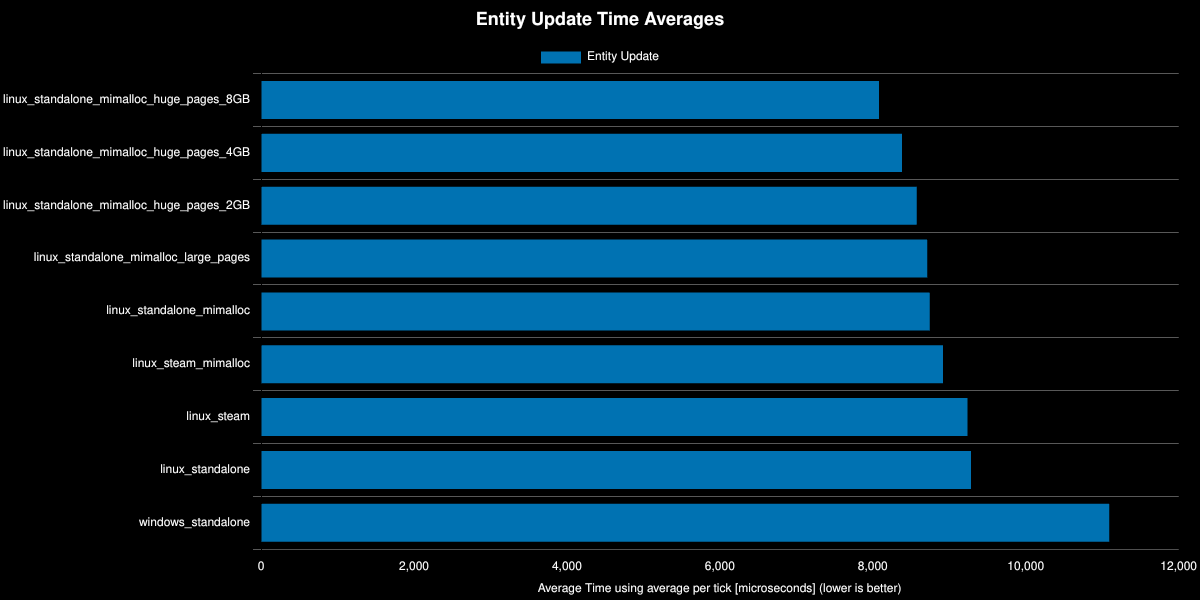
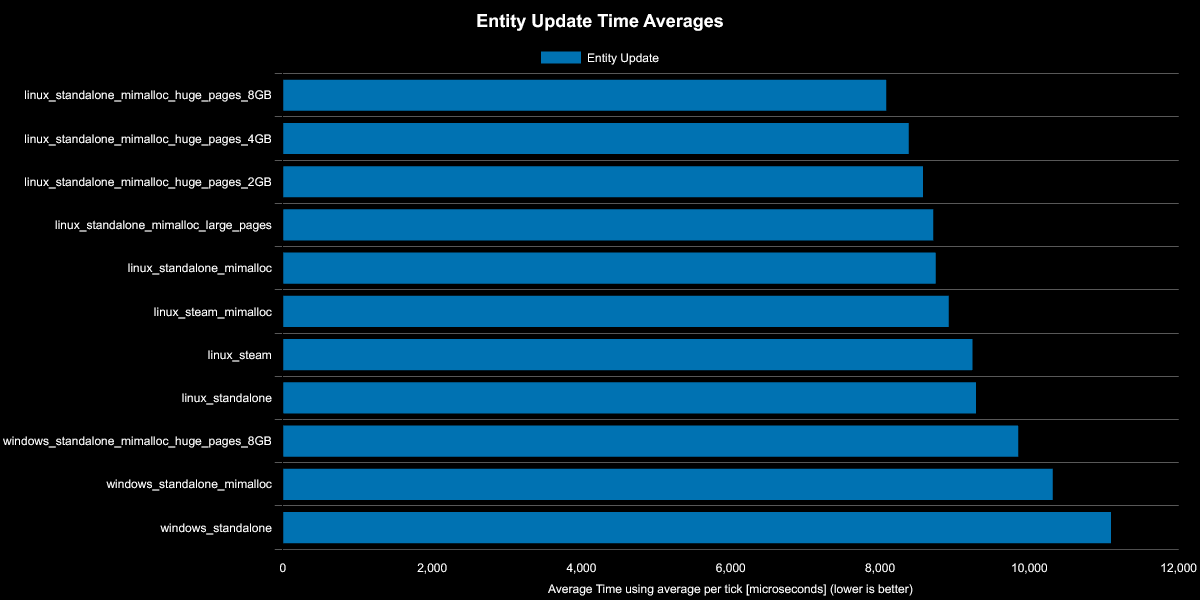
linux-vs-windows: add results for mimalloc and huge pages on windows

Changed region(s): [[0.0, 0.09, 0.9558, 0.99], [0.4008, 0.0, 0.6167, 0.06], [0.9558, 0.93, 1.0, 0.96]]

diff --git a/benchmarks/2026-01-25-linux-vs-windows/README.md b/benchmarks/2026-01-25-linux-vs-windows/README.md
@@ -205,21 +205,66 @@ env LD_PRELOAD="${MIMALLOC_SO}" \
   "$@"
 ```
 
+**Windows Mimalloc / Huge Pages**
+
+To get mimalloc injected and to enable huge pages the injector here was used: https://github.com/KeinNiemand/LargePageInjectorMods
+
+In order to get it work with the benchmarking tool [belt](https://github.com/florishafkenscheid/belt) a few changes needed to be made in order to get the injector to exit gracefully. These changes are documented in the following merge request but have impact to the performance:
+https://github.com/KeinNiemand/LargePageInjectorMods/pull/15
+
+
+The following configuration was used where `MIMALLOC_RESERVE_HUGE_OS_PAGES` was set to 0 for the mimalloc only test.
+
+```toml
+# Path to the game/application executable to launch
+LaunchPath = "Factorio.exe"  # For Factorio
+
+# Modules (DLLs or EXEs) to patch with mimalloc
+ModulesToPatch = [
+    "Factorio.exe",  # The main executable
+    # Add other modules if needed
+    # "example.dll",
+]
+
+# Verbosity level (0-4)
+Verbosity = 1  # 0 = Silent, 1 = Errors, 2 = Warnings, 3 = Info, 4 = Debug
+
+# Redirect console output to Injector (true/false) Required to see console output
+RedirectConsoleOutput = true
+
+# Enable beep sound after injection (true/false)
+EnableBeep = true  # Set to false to disable
+
+# Environment variables to set
+[Environment]
+#Amount of RAM in GB allocated to Large Pages set to 0 to disable huge pages
+#See readme for recommended values for your ram size 
+MIMALLOC_RESERVE_HUGE_OS_PAGES = "8"
+#Various Mimalloc Env vars which may boost performance. Comment these out if you don't want them
+MIMALLOC_ARENA_EAGER_COMMIT = "1"
+#Thse two should do the same things but some mimalloc docs say one or the other so I set both)
+MIMALLOC_PURGE_DELAY = "10000"
+MIMALLOC_RESET_DELAY = "10000"
+# Add Any other environment variables here
+```
+
 ## Naming Conventions
 
 The following naming conventions are used throughout the results and references to describe configuration combinations across operatings systems, dynamically injected libraries, and distribution verisions of Factorio.
 
-| Short Hand Name                          | Operating System | Factorio Distribution | Memory Allocator | Flags                            |
-| ---------------------------------------- | ---------------- | --------------------- | ---------------- | -------------------------------- |
-| windows_standalone                       | Windows          | standalone            | malloc           |                                  |
-| linux_standalone                         | Linux            | standalone            | malloc           |                                  |
-| linux_steam                              | Linux            | steam                 | malloc           |                                  |
-| linux_standalone_mimalloc                | Linux            | standalone            | mimalloc         |                                  |
-| linux_steam_mimalloc                     | Linux            | steam                 | mimalloc         |                                  |
-| linux_standalone_mimalloc_large_pages    | Linux            | standalone            | mimalloc         | MIMALLOC_ALLOW_LARGE_OS_PAGES=1  |
-| linux_standalone_mimalloc_huge_pages_2GB | Linux            | standalone            | mimalloc         | MIMALLOC_RESERVE_HUGE_OS_PAGES=2 |
-| linux_standalone_mimalloc_huge_pages_4GB | Linux            | standalone            | mimalloc         | MIMALLOC_RESERVE_HUGE_OS_PAGES=4 |
-| linux_standalone_mimalloc_huge_pages_8GB | Linux            | standalone            | mimalloc         | MIMALLOC_RESERVE_HUGE_OS_PAGES=8 |
+| Short Hand Name                            | Operating System | Factorio Distribution | Memory Allocator | Flags                            |
+| ------------------------------------------ | ---------------- | --------------------- | ---------------- | -------------------------------- |
+| windows_standalone                         | Windows          | standalone            | malloc           |                                  |
+| windows_standalone_mimalloc                | Windows          | standalone            | mimalloc         |                                  |
+| windows_standalone_mimalloc_huge_pages_8GB | Windows          | standalone            | mimalloc         | MIMALLOC_RESERVE_HUGE_OS_PAGES=8 |
+| linux_standalone                           | Linux            | standalone            | malloc           |                                  |
+| linux_steam                                | Linux            | steam                 | malloc           |                                  |
+| linux_standalone_mimalloc                  | Linux            | standalone            | mimalloc         |                                  |
+| linux_steam_mimalloc                       | Linux            | steam                 | mimalloc         |                                  |
+| linux_standalone_mimalloc_large_pages      | Linux            | standalone            | mimalloc         | MIMALLOC_ALLOW_LARGE_OS_PAGES=1  |
+| linux_standalone_mimalloc_huge_pages_2GB   | Linux            | standalone            | mimalloc         | MIMALLOC_RESERVE_HUGE_OS_PAGES=2 |
+| linux_standalone_mimalloc_huge_pages_4GB   | Linux            | standalone            | mimalloc         | MIMALLOC_RESERVE_HUGE_OS_PAGES=4 |
+| linux_standalone_mimalloc_huge_pages_8GB   | Linux            | standalone            | mimalloc         | MIMALLOC_RESERVE_HUGE_OS_PAGES=8 |
 
 > Note: malloc is the default memory allocator
 
@@ -234,60 +279,66 @@ The following naming conventions are used throughout the results and references 
 ### Run Variance
 ![](charts/run_boxplot.png)
 
-| Configuration                            | Execution Time Range (ms) | Spread (ms) | Effective UPS |
-| ---------------------------------------- | ------------------------- | ----------- | ------------- |
-| linux_steam                              | 260_100 ... 260_763       | ~663        | ~69.1         |
-| linux_standalone_mimalloc_huge_pages_4GB | 234_561 ... 235_319       | ~758        | ~76.6         |
-| linux_steam_mimalloc                     | 248_240 ... 249_334       | ~1,094      | ~72.3         |
-| linux_standalone_mimalloc                | 245_038 ... 246_363       | ~1,325      | ~73.3         |
-| linux_standalone                         | 261_376 ... 263_096       | ~1,720      | ~68.7         |
-| linux_standalone_mimalloc_huge_pages_8GB | 226_706 ... 228_459       | ~1,753      | ~79.2         |
-| linux_standalone_mimalloc_huge_pages_2GB | 238_913 ... 241_397       | ~2,484      | ~75.1         |
-| linux_standalone_mimalloc_large_pages    | 243_149 ... 245_659       | ~2,510      | ~73.9         |
-| windows_standalone                       | 299_286 ... 314_209       | ~14,923     | ~58.5         |
+| Configuration                              | Execution Time Range (ms) | Spread (ms) | Effective UPS |
+| ------------------------------------------ | ------------------------- | ----------- | ------------- |
+| linux_steam                                | 260_100 ... 260_763       | ~663        | ~69.1         |
+| linux_standalone_mimalloc_huge_pages_4GB   | 234_561 ... 235_319       | ~758        | ~76.6         |
+| linux_steam_mimalloc                       | 248_240 ... 249_334       | ~1,094      | ~72.3         |
+| linux_standalone_mimalloc                  | 245_038 ... 246_363       | ~1,325      | ~73.3         |
+| linux_standalone                           | 261_376 ... 263_096       | ~1,720      | ~68.7         |
+| linux_standalone_mimalloc_huge_pages_8GB   | 226_706 ... 228_459       | ~1,753      | ~79.2         |
+| linux_standalone_mimalloc_huge_pages_2GB   | 238_913 ... 241_397       | ~2,484      | ~75.1         |
+| linux_standalone_mimalloc_large_pages      | 243_149 ... 245_659       | ~2,510      | ~73.9         |
+| windows_standalone_mimalloc                | 282_077 ... 290_735       | ~8,658      | ~62.0         |
+| windows_standalone_mimalloc_huge_pages_8GB | 275_016 ... 287_316       | ~12,300     | ~64.3         |
+| windows_standalone                         | 299_286 ... 314_209       | ~14,923     | ~58.5         |
 
 **Observations**
 
 1. **Most stable**: `linux_steam` (no mimalloc) has the tightest variance at only ~663ms spread across 10 runs
 2. **Best performance + low variance**: `huge_pages_8GB` achieves the fastest times (~79 UPS) with reasonable variance
 3. **Unexpected**: `linux_standalone_mimalloc_huge_pages_2GB` and `linux_standalone_mimalloc_large_pages` have higher variance than expected compared to 4GB/8GB configurations
-4. **Windows warm-up effect**: Windows shows a pattern where run 0 is faster, then runs 1-2 are slower before stabilizing. Linux configurations don't exhibit this pattern as strongly.
 
 In summary though, Linux reduces the run variance by an order of magnitude and in some cases two orders of magnitude making Linux the clear favorite for benchmark consistency.
 
 ### All Metrics
 ![summary_multi_run](charts/summary_multi_run.png)
 
-| Save File                                | Entity Update | Space Platforms | Control Behavior Update | Electric/Heat/Fluid Circuit Update | Transport Lines Update | Trains | Particle Update | Other | Whole Update | % Decrease from Previous | % Decrease from Best |
-| ---------------------------------------- | ------------- | --------------- | ----------------------- | ---------------------------------- | ---------------------- | ------ | --------------- | ----- | ------------ | ------------------------ | -------------------- |
-| linux_standalone_mimalloc_huge_pages_8GB | 8082          | 1470            | 868                     | 652                                | 400                    | 104    | 86              | 975   | 12637        |                          | 0%                   |
-| linux_standalone_mimalloc_huge_pages_4GB | 8383          | 1484            | 896                     | 657                                | 423                    | 107    | 89              | 1008  | 13047        | -3.24%                   | -3.24%               |
-| linux_standalone_mimalloc_huge_pages_2GB | 8576          | 1502            | 911                     | 657                                | 434                    | 111    | 93              | 1036  | 13321        | -2.1%                    | -5.41%               |
-| linux_standalone_mimalloc_large_pages    | 8714          | 1509            | 917                     | 666                                | 435                    | 112    | 98              | 1087  | 13539        | -1.63%                   | -7.13%               |
-| linux_standalone_mimalloc                | 8746          | 1512            | 946                     | 671                                | 438                    | 114    | 97              | 1121  | 13646        | -0.79%                   | -7.98%               |
-| linux_steam_mimalloc                     | 8919          | 1517            | 941                     | 665                                | 436                    | 116    | 98              | 1135  | 13828        | -1.33%                   | -9.42%               |
-| linux_steam                              | 9237          | 1549            | 1073                    | 640                                | 458                    | 142    | 101             | 1275  | 14474        | -4.68%                   | -14.54%              |
-| linux_standalone                         | 9285          | 1547            | 1080                    | 649                                | 461                    | 140    | 102             | 1285  | 14549        | -0.51%                   | -15.13%              |
-| windows_standalone                       | 11093         | 2167            | 941                     | 672                                | 547                    | 149    | 124             | 1337  | 17031        | -17.06%                  | -34.77%              |
+| Save File                                  | Entity Update | Space Platforms | Control Behavior Update | Electric/Heat/Fluid Circuit Update | Transport Lines Update | Trains | Particle Update | Other | Whole Update | % Decrease from Previous | % Decrease from Best |
+| ------------------------------------------ | ------------- | --------------- | ----------------------- | ---------------------------------- | ---------------------- | ------ | --------------- | ----- | ------------ | ------------------------ | -------------------- |
+| linux_standalone_mimalloc_huge_pages_8GB   | 8082          | 1470            | 868                     | 652                                | 400                    | 104    | 86              | 975   | 12637        |                          | 0%                   |
+| linux_standalone_mimalloc_huge_pages_4GB   | 8383          | 1484            | 896                     | 657                                | 423                    | 107    | 89              | 1008  | 13047        | -3.24%                   | -3.24%               |
+| linux_standalone_mimalloc_huge_pages_2GB   | 8576          | 1502            | 911                     | 657                                | 434                    | 111    | 93              | 1036  | 13321        | -2.1%                    | -5.41%               |
+| linux_standalone_mimalloc_large_pages      | 8714          | 1509            | 917                     | 666                                | 435                    | 112    | 98              | 1087  | 13539        | -1.63%                   | -7.13%               |
+| linux_standalone_mimalloc                  | 8746          | 1512            | 946                     | 671                                | 438                    | 114    | 97              | 1121  | 13646        | -0.79%                   | -7.98%               |
+| linux_steam_mimalloc                       | 8919          | 1517            | 941                     | 665                                | 436                    | 116    | 98              | 1135  | 13828        | -1.33%                   | -9.42%               |
+| linux_steam                                | 9237          | 1549            | 1073                    | 640                                | 458                    | 142    | 101             | 1275  | 14474        | -4.68%                   | -14.54%              |
+| linux_standalone                           | 9285          | 1547            | 1080                    | 649                                | 461                    | 140    | 102             | 1285  | 14549        | -0.51%                   | -15.13%              |
+| windows_standalone_mimalloc_huge_pages_8GB | 9852          | 2115            | 967                     | 673                                | 473                    | 126    | 114             | 1175  | 15496        | -6.51%                   | -22.62%              |
+| windows_standalone_mimalloc                | 10313         | 2122            | 983                     | 649                                | 493                    | 131    | 118             | 1251  | 16059        | -3.63%                   | -27.08%              |
+| windows_standalone                         | 11093         | 2167            | 941                     | 672                                | 547                    | 149    | 124             | 1337  | 17031        | -6.05%                   | -34.77%              |
 
 **Observations**
-- The "Whole Update" time is lowest for `linux_standalone_mimalloc_huge_pages_8GB` (12.637 ms), and highest for Windows (17.031 ms), a 34.8% difference.
+- The "Whole Update" time is lowest for `linux_standalone_mimalloc_huge_pages_8GB` (12.637 ms), and highest for `windows_standalone` (17.031 ms), a 34.8% difference.
 - All Linux configs outperform Windows by a large margin
+- Enabling mimalloc and huge pages both improve performance in windows but cannot keep up with Linux
 
 ### Entity Update Time
 ![summary_multi_run_entity_only](charts/summary_multi_run_entity_only.png)
 
-| Save File                                | Entity Update | % Decrease from Previous | % Decrease from Best |
-| ---------------------------------------- | ------------- | ------------------------ | -------------------- |
-| linux_standalone_mimalloc_huge_pages_8GB | 8082          |                          | 0%                   |
-| linux_standalone_mimalloc_huge_pages_4GB | 8383          | -3.73%                   | -3.73%               |
-| linux_standalone_mimalloc_huge_pages_2GB | 8576          | -2.3%                    | -6.12%               |
-| linux_standalone_mimalloc_large_pages    | 8714          | -1.6%                    | -7.82%               |
-| linux_standalone_mimalloc                | 8746          | -0.36%                   | -8.21%               |
-| linux_steam_mimalloc                     | 8919          | -1.99%                   | -10.36%              |
-| linux_steam                              | 9237          | -3.57%                   | -14.3%               |
-| linux_standalone                         | 9285          | -0.51%                   | -14.89%              |
-| windows_standalone                       | 11093         | -19.48%                  | -37.27%              |
+| Save File                                  | Entity Update | % Decrease from Previous | % Decrease from Best |
+| ------------------------------------------ | ------------- | ------------------------ | -------------------- |
+| linux_standalone_mimalloc_huge_pages_8GB   | 8082          |                          | 0%                   |
+| linux_standalone_mimalloc_huge_pages_4GB   | 8383          | -3.73%                   | -3.73%               |
+| linux_standalone_mimalloc_huge_pages_2GB   | 8576          | -2.3%                    | -6.12%               |
+| linux_standalone_mimalloc_large_pages      | 8714          | -1.6%                    | -7.82%               |
+| linux_standalone_mimalloc                  | 8746          | -0.36%                   | -8.21%               |
+| linux_steam_mimalloc                       | 8919          | -1.99%                   | -10.36%              |
+| linux_steam                                | 9237          | -3.57%                   | -14.3%               |
+| linux_standalone                           | 9285          | -0.51%                   | -14.89%              |
+| windows_standalone_mimalloc_huge_pages_8GB | 9852          | -6.11%                   | -21.91%              |
+| windows_standalone_mimalloc                | 10313         | -4.67%                   | -27.61%              |
+| windows_standalone                         | 11093         | -7.57%                   | -37.27%              |
 
 This metric shows the largest improvement for Linux over Windows. Comparing only the standalone versions results in a 19.48% improvement of Linux over Windows.
 
@@ -299,17 +350,19 @@ For the standalone version only in Linux, there is a clear improvement that come
 
 ### Multi Threaded Metrics
 ![](charts/summary_multi_run_mt_only.png)
-| Save File                                | Control Behavior Update | Electric/Heat/Fluid Circuit Update | Transport Lines Update | % Decrease from Previous | % Decrease from Best |
-| ---------------------------------------- | ----------------------- | ---------------------------------- | ---------------------- | ------------------------ | -------------------- |
-| linux_standalone_mimalloc_huge_pages_8GB | 868                     | 652                                | 400                    |                          | 0%                   |
-| linux_standalone_mimalloc_huge_pages_4GB | 896                     | 657                                | 423                    | -2.92%                   | -2.92%               |
-| linux_standalone_mimalloc_huge_pages_2GB | 911                     | 657                                | 434                    | -1.34%                   | -4.3%                |
-| linux_standalone_mimalloc_large_pages    | 917                     | 666                                | 435                    | -0.83%                   | -5.16%               |
-| linux_steam_mimalloc                     | 941                     | 665                                | 436                    | -1.16%                   | -6.38%               |
-| linux_standalone_mimalloc                | 946                     | 671                                | 438                    | -0.67%                   | -7.09%               |
-| windows_standalone                       | 941                     | 672                                | 547                    | -5.06%                   | -12.51%              |
-| linux_steam                              | 1073                    | 640                                | 458                    | -0.51%                   | -13.09%              |
-| linux_standalone                         | 1080                    | 649                                | 461                    | -0.86%                   | -14.07%              |
+| Save File                                  | Control Behavior Update | Electric/Heat/Fluid Circuit Update | Transport Lines Update | % Decrease from Previous | % Decrease from Best |
+| ------------------------------------------ | ----------------------- | ---------------------------------- | ---------------------- | ------------------------ | -------------------- |
+| linux_standalone_mimalloc_huge_pages_8GB   | 868                     | 652                                | 400                    |                          | 0%                   |
+| linux_standalone_mimalloc_huge_pages_4GB   | 896                     | 657                                | 423                    | -2.92%                   | -2.92%               |
+| linux_standalone_mimalloc_huge_pages_2GB   | 911                     | 657                                | 434                    | -1.34%                   | -4.3%                |
+| linux_standalone_mimalloc_large_pages      | 917                     | 666                                | 435                    | -0.83%                   | -5.16%               |
+| linux_steam_mimalloc                       | 941                     | 665                                | 436                    | -1.16%                   | -6.38%               |
+| linux_standalone_mimalloc                  | 946                     | 671                                | 438                    | -0.67%                   | -7.09%               |
+| windows_standalone_mimalloc_huge_pages_8GB | 967                     | 673                                | 473                    | -2.8%                    | -10.09%              |
+| windows_standalone_mimalloc                | 983                     | 649                                | 493                    | -0.51%                   | -10.66%              |
+| windows_standalone                         | 941                     | 672                                | 547                    | -1.68%                   | -12.51%              |
+| linux_steam                                | 1073                    | 640                                | 458                    | -0.51%                   | -13.09%              |
+| linux_standalone                           | 1080                    | 649                                | 461                    | -0.86%                   | -14.07%              |
 
 The results from these metrics were unexpected as the multi threaded performance in Linux was worse than windows using `malloc` as the memory allocator. Once `mimalloc` was introduced however, linux pulls ahead.
 
@@ -318,45 +371,51 @@ The following sections demonstrate this pattern as well in the breakdowns by ind
 
 #### Control Behavior Update Time
 ![](charts/summary_multi_run_control_behavior_only.png)
-| Save File                                | Control Behavior Update | % Decrease from Previous | % Decrease from Best |
-| ---------------------------------------- | ----------------------- | ------------------------ | -------------------- |
-| linux_standalone_mimalloc_huge_pages_8GB | 868                     |                          | 0%                   |
-| linux_standalone_mimalloc_huge_pages_4GB | 896                     | -3.14%                   | -3.14%               |
-| linux_standalone_mimalloc_huge_pages_2GB | 911                     | -1.74%                   | -4.94%               |
-| linux_standalone_mimalloc_large_pages    | 917                     | -0.67%                   | -5.65%               |
-| linux_steam_mimalloc                     | 941                     | -2.6%                    | -8.4%                |
-| windows_standalone                       | 941                     | -0.01%                   | -8.41%               |
-| linux_standalone_mimalloc                | 946                     | -0.52%                   | -8.98%               |
-| linux_steam                              | 1073                    | -13.37%                  | -23.55%              |
-| linux_standalone                         | 1080                    | -0.65%                   | -24.35%              |
+| Save File                                  | Control Behavior Update | % Decrease from Previous | % Decrease from Best |
+| ------------------------------------------ | ----------------------- | ------------------------ | -------------------- |
+| linux_standalone_mimalloc_huge_pages_8GB   | 868                     |                          | 0%                   |
+| linux_standalone_mimalloc_huge_pages_4GB   | 896                     | -3.14%                   | -3.14%               |
+| linux_standalone_mimalloc_huge_pages_2GB   | 911                     | -1.74%                   | -4.94%               |
+| linux_standalone_mimalloc_large_pages      | 917                     | -0.67%                   | -5.65%               |
+| linux_steam_mimalloc                       | 941                     | -2.6%                    | -8.4%                |
+| windows_standalone                         | 941                     | -0.01%                   | -8.41%               |
+| linux_standalone_mimalloc                  | 946                     | -0.52%                   | -8.98%               |
+| windows_standalone_mimalloc_huge_pages_8GB | 967                     | -2.18%                   | -11.36%              |
+| windows_standalone_mimalloc                | 983                     | -1.64%                   | -13.18%              |
+| linux_steam                                | 1073                    | -9.16%                   | -23.55%              |
+| linux_standalone                           | 1080                    | -0.65%                   | -24.35%              |
 
 #### Electric / Heat / Fluid / Circuit Update Time
 ![](charts/summary_multi_run_electric_heat_fluid_circuit_only.png)
-| Save File                                | Electric/Heat/Fluid Circuit Update | % Decrease from Previous | % Decrease from Best |
-| ---------------------------------------- | ---------------------------------- | ------------------------ | -------------------- |
-| linux_steam                              | 640                                |                          | 0%                   |
-| linux_standalone                         | 649                                | -1.36%                   | -1.36%               |
-| linux_standalone_mimalloc_huge_pages_8GB | 652                                | -0.47%                   | -1.83%               |
-| linux_standalone_mimalloc_huge_pages_2GB | 657                                | -0.82%                   | -2.67%               |
-| linux_standalone_mimalloc_huge_pages_4GB | 657                                | -0.02%                   | -2.68%               |
-| linux_steam_mimalloc                     | 665                                | -1.19%                   | -3.91%               |
-| linux_standalone_mimalloc_large_pages    | 666                                | -0.19%                   | -4.11%               |
-| linux_standalone_mimalloc                | 671                                | -0.74%                   | -4.88%               |
-| windows_standalone                       | 672                                | -0.08%                   | -4.97%               |
+| Save File                                  | Electric/Heat/Fluid Circuit Update | % Decrease from Previous | % Decrease from Best |
+| ------------------------------------------ | ---------------------------------- | ------------------------ | -------------------- |
+| linux_steam                                | 640                                |                          | 0%                   |
+| linux_standalone                           | 649                                | -1.36%                   | -1.36%               |
+| windows_standalone_mimalloc                | 649                                | -0.02%                   | -1.37%               |
+| linux_standalone_mimalloc_huge_pages_8GB   | 652                                | -0.45%                   | -1.83%               |
+| linux_standalone_mimalloc_huge_pages_2GB   | 657                                | -0.82%                   | -2.67%               |
+| linux_standalone_mimalloc_huge_pages_4GB   | 657                                | -0.02%                   | -2.68%               |
+| linux_steam_mimalloc                       | 665                                | -1.19%                   | -3.91%               |
+| linux_standalone_mimalloc_large_pages      | 666                                | -0.19%                   | -4.11%               |
+| linux_standalone_mimalloc                  | 671                                | -0.74%                   | -4.88%               |
+| windows_standalone                         | 672                                | -0.08%                   | -4.97%               |
+| windows_standalone_mimalloc_huge_pages_8GB | 673                                | -0.2%                    | -5.18%               |
 
 #### Transport Line Update Time
 ![](charts/summary_multi_run_transport_lines_only.png)
-| Save File                                | Transport Lines Update | % Decrease from Previous | % Decrease from Best |
-| ---------------------------------------- | ---------------------- | ------------------------ | -------------------- |
-| linux_standalone_mimalloc_huge_pages_8GB | 400                    |                          | 0%                   |
-| linux_standalone_mimalloc_huge_pages_4GB | 423                    | -5.82%                   | -5.82%               |
-| linux_standalone_mimalloc_huge_pages_2GB | 434                    | -2.59%                   | -8.56%               |
-| linux_standalone_mimalloc_large_pages    | 435                    | -0.3%                    | -8.88%               |
-| linux_steam_mimalloc                     | 436                    | -0.19%                   | -9.09%               |
-| linux_standalone_mimalloc                | 438                    | -0.54%                   | -9.68%               |
-| linux_steam                              | 458                    | -4.53%                   | -14.66%              |
-| linux_standalone                         | 461                    | -0.67%                   | -15.43%              |
-| windows_standalone                       | 547                    | -18.53%                  | -36.82%              |
+| Save File                                  | Transport Lines Update | % Decrease from Previous | % Decrease from Best |
+| ------------------------------------------ | ---------------------- | ------------------------ | -------------------- |
+| linux_standalone_mimalloc_huge_pages_8GB   | 400                    |                          | 0%                   |
+| linux_standalone_mimalloc_huge_pages_4GB   | 423                    | -5.82%                   | -5.82%               |
+| linux_standalone_mimalloc_huge_pages_2GB   | 434                    | -2.59%                   | -8.56%               |
+| linux_standalone_mimalloc_large_pages      | 435                    | -0.3%                    | -8.88%               |
+| linux_steam_mimalloc                       | 436                    | -0.19%                   | -9.09%               |
+| linux_standalone_mimalloc                  | 438                    | -0.54%                   | -9.68%               |
+| linux_steam                                | 458                    | -4.53%                   | -14.66%              |
+| linux_standalone                           | 461                    | -0.67%                   | -15.43%              |
+| windows_standalone_mimalloc_huge_pages_8GB | 473                    | -2.62%                   | -18.45%              |
+| windows_standalone_mimalloc                | 493                    | -4.08%                   | -23.28%              |
+| windows_standalone                         | 547                    | -10.98%                  | -36.82%              |
 
 
 ### Huge Pages Memory Size
@@ -380,9 +439,19 @@ There are most likely diminishing returns for smaller save files which won't ref
 
 ![summary_steam_vs_standalone](charts/summary_steam_vs_standalone.png)
 
+| Save File        | Entity Update | Space Platforms | Control Behavior Update | Electric/Heat/Fluid Circuit Update | Transport Lines Update | Trains | Particle Update | Other | Whole Update | % Decrease from Previous | % Decrease from Best |
+| ---------------- | ------------- | --------------- | ----------------------- | ---------------------------------- | ---------------------- | ------ | --------------- | ----- | ------------ | ------------------------ | -------------------- |
+| linux_steam      | 9237          | 1549            | 1073                    | 640                                | 458                    | 142    | 101             | 1275  | 14474        |                          | 0%                   |
+| linux_standalone | 9285          | 1547            | 1080                    | 649                                | 461                    | 140    | 102             | 1285  | 14549        | -0.51%                   | -0.51%               |
+
 Both versions perform almost identically with no noticeable difference between the versions using `malloc`.
 
 ![summary_steam_vs_standalone_mimalloc](charts/summary_steam_vs_standalone_mimalloc.png)
+
+| Save File                 | Entity Update | Space Platforms | Control Behavior Update | Electric/Heat/Fluid Circuit Update | Transport Lines Update | Trains | Particle Update | Other | Whole Update | % Decrease from Previous | % Decrease from Best |
+| ------------------------- | ------------- | --------------- | ----------------------- | ---------------------------------- | ---------------------- | ------ | --------------- | ----- | ------------ | ------------------------ | -------------------- |
+| linux_standalone_mimalloc | 8746          | 1512            | 946                     | 671                                | 438                    | 114    | 97              | 1121  | 13646        |                          | 0%                   |
+| linux_steam_mimalloc      | 8919          | 1517            | 941                     | 665                                | 436                    | 116    | 98              | 1135  | 13828        | -1.33%                   | -1.33%               |
 
 Once `mimalloc` is applied however, the `standalone` version performs better.
 
@@ -394,12 +463,13 @@ Because they are beautiful. Ordered descending by performance.
 ![linux_standalone_mimalloc_huge_pages_4GB](charts/timeseries_linux_standalone_mimalloc_huge_pages_4GB.png)
 ![linux_standalone_mimalloc_huge_pages_2GB](charts/timeseries_linux_standalone_mimalloc_huge_pages_2GB.png)
 ![linux_standalone_mimalloc_large_pages](charts/timeseries_linux_standalone_mimalloc_large_pages.png)
-![linux_steam_mimalloc](charts/timeseries_linux_steam_mimalloc.png)
 ![linux_standalone_mimalloc](charts/timeseries_linux_standalone_mimalloc.png)
+![linux_steam_mimalloc](charts/timeseries_linux_steam_mimalloc.png)
 ![linux_steam](charts/timeseries_linux_steam.png)
 ![linux_standalone](charts/timeseries_linux_standalone.png)
+![windows_standalone_mimalloc_huge_pages_8GB](charts/timeseries_windows_standalone_mimalloc_huge_pages_8GB.png)
+![windows_standalone_mimalloc](charts/timeseries_windows_standalone_mimalloc.png)
 ![windows_standalone](charts/timeseries_windows_standalone.png)
-
 
 ## Credits
 

diff --git a/benchmarks/2026-01-25-linux-vs-windows/charts/summary_multi_run_electric_heat_fluid_circuit_only.md b/benchmarks/2026-01-25-linux-vs-windows/charts/summary_multi_run_electric_heat_fluid_circuit_only.md
@@ -2,10 +2,12 @@
 |---|---|---|---|
 |linux_steam|640||0%|
 |linux_standalone|649|-1.36%|-1.36%|
-|linux_standalone_mimalloc_huge_pages_8GB|652|-0.47%|-1.83%|
+|windows_standalone_mimalloc|649|-0.02%|-1.37%|
+|linux_standalone_mimalloc_huge_pages_8GB|652|-0.45%|-1.83%|
 |linux_standalone_mimalloc_huge_pages_2GB|657|-0.82%|-2.67%|
 |linux_standalone_mimalloc_huge_pages_4GB|657|-0.02%|-2.68%|
 |linux_steam_mimalloc|665|-1.19%|-3.91%|
 |linux_standalone_mimalloc_large_pages|666|-0.19%|-4.11%|
 |linux_standalone_mimalloc|671|-0.74%|-4.88%|
 |windows_standalone|672|-0.08%|-4.97%|
+|windows_standalone_mimalloc_huge_pages_8GB|673|-0.2%|-5.18%|

diff --git a/benchmarks/2026-01-25-linux-vs-windows/charts/summary_multi_run.md b/benchmarks/2026-01-25-linux-vs-windows/charts/summary_multi_run.md
@@ -8,4 +8,6 @@
 |linux_steam_mimalloc|8919|1517|941|665|436|116|98|1135|13828|-1.33%|-9.42%|
 |linux_steam|9237|1549|1073|640|458|142|101|1275|14474|-4.68%|-14.54%|
 |linux_standalone|9285|1547|1080|649|461|140|102|1285|14549|-0.51%|-15.13%|
-|windows_standalone|11093|2167|941|672|547|149|124|1337|17031|-17.06%|-34.77%|
+|windows_standalone_mimalloc_huge_pages_8GB|9852|2115|967|673|473|126|114|1175|15496|-6.51%|-22.62%|
+|windows_standalone_mimalloc|10313|2122|983|649|493|131|118|1251|16059|-3.63%|-27.08%|
+|windows_standalone|11093|2167|941|672|547|149|124|1337|17031|-6.05%|-34.77%|

diff --git a/benchmarks/2026-01-25-linux-vs-windows/charts/summary_linux_vs_windows.md b/benchmarks/2026-01-25-linux-vs-windows/charts/summary_linux_vs_windows.md
@@ -1,4 +1,4 @@
-|Save File|Entity Update|% Decrease from Previous|% Decrease from Best|
-|---|---|---|---|
-|linux_standalone|9285||0%|
-|windows_standalone|11093|-19.48%|-19.48%|
+|Save File|Entity Update|Space Platforms|Control Behavior Update|Electric/Heat/Fluid Circuit Update|Transport Lines Update|Trains|Particle Update|Other|Whole Update|% Decrease from Previous|% Decrease from Best|
+|---|---|---|---|---|---|---|---|---|---|---|---|
+|linux_standalone|9285|1547|1080|649|461|140|102|1285|14549||0%|
+|windows_standalone|11093|2167|941|672|547|149|124|1337|17031|-17.06%|-17.06%|

diff --git a/benchmarks/2026-01-25-linux-vs-windows/charts/summary_multi_run_mt_only.md b/benchmarks/2026-01-25-linux-vs-windows/charts/summary_multi_run_mt_only.md
@@ -6,6 +6,8 @@
 |linux_standalone_mimalloc_large_pages|917|666|435|-0.83%|-5.16%|
 |linux_steam_mimalloc|941|665|436|-1.16%|-6.38%|
 |linux_standalone_mimalloc|946|671|438|-0.67%|-7.09%|
-|windows_standalone|941|672|547|-5.06%|-12.51%|
+|windows_standalone_mimalloc_huge_pages_8GB|967|673|473|-2.8%|-10.09%|
+|windows_standalone_mimalloc|983|649|493|-0.51%|-10.66%|
+|windows_standalone|941|672|547|-1.68%|-12.51%|
 |linux_steam|1073|640|458|-0.51%|-13.09%|
 |linux_standalone|1080|649|461|-0.86%|-14.07%|

diff --git a/benchmarks/2026-01-25-linux-vs-windows/charts/summary_multi_run_control_behavior_only.md b/benchmarks/2026-01-25-linux-vs-windows/charts/summary_multi_run_control_behavior_only.md
@@ -7,5 +7,7 @@
 |linux_steam_mimalloc|941|-2.6%|-8.4%|
 |windows_standalone|941|-0.01%|-8.41%|
 |linux_standalone_mimalloc|946|-0.52%|-8.98%|
-|linux_steam|1073|-13.37%|-23.55%|
+|windows_standalone_mimalloc_huge_pages_8GB|967|-2.18%|-11.36%|
+|windows_standalone_mimalloc|983|-1.64%|-13.18%|
+|linux_steam|1073|-9.16%|-23.55%|
 |linux_standalone|1080|-0.65%|-24.35%|

diff --git a/benchmarks/2026-01-25-linux-vs-windows/charts/summary_multi_run_entity_only.md b/benchmarks/2026-01-25-linux-vs-windows/charts/summary_multi_run_entity_only.md
@@ -8,4 +8,6 @@
 |linux_steam_mimalloc|8919|-1.99%|-10.36%|
 |linux_steam|9237|-3.57%|-14.3%|
 |linux_standalone|9285|-0.51%|-14.89%|
-|windows_standalone|11093|-19.48%|-37.27%|
+|windows_standalone_mimalloc_huge_pages_8GB|9852|-6.11%|-21.91%|
+|windows_standalone_mimalloc|10313|-4.67%|-27.61%|
+|windows_standalone|11093|-7.57%|-37.27%|

diff --git a/benchmarks/2026-01-25-linux-vs-windows/charts/summary_multi_run_transport_lines_only.md b/benchmarks/2026-01-25-linux-vs-windows/charts/summary_multi_run_transport_lines_only.md
@@ -8,4 +8,6 @@
 |linux_standalone_mimalloc|438|-0.54%|-9.68%|
 |linux_steam|458|-4.53%|-14.66%|
 |linux_standalone|461|-0.67%|-15.43%|
-|windows_standalone|547|-18.53%|-36.82%|
+|windows_standalone_mimalloc_huge_pages_8GB|473|-2.62%|-18.45%|
+|windows_standalone_mimalloc|493|-4.08%|-23.28%|
+|windows_standalone|547|-10.98%|-36.82%|
